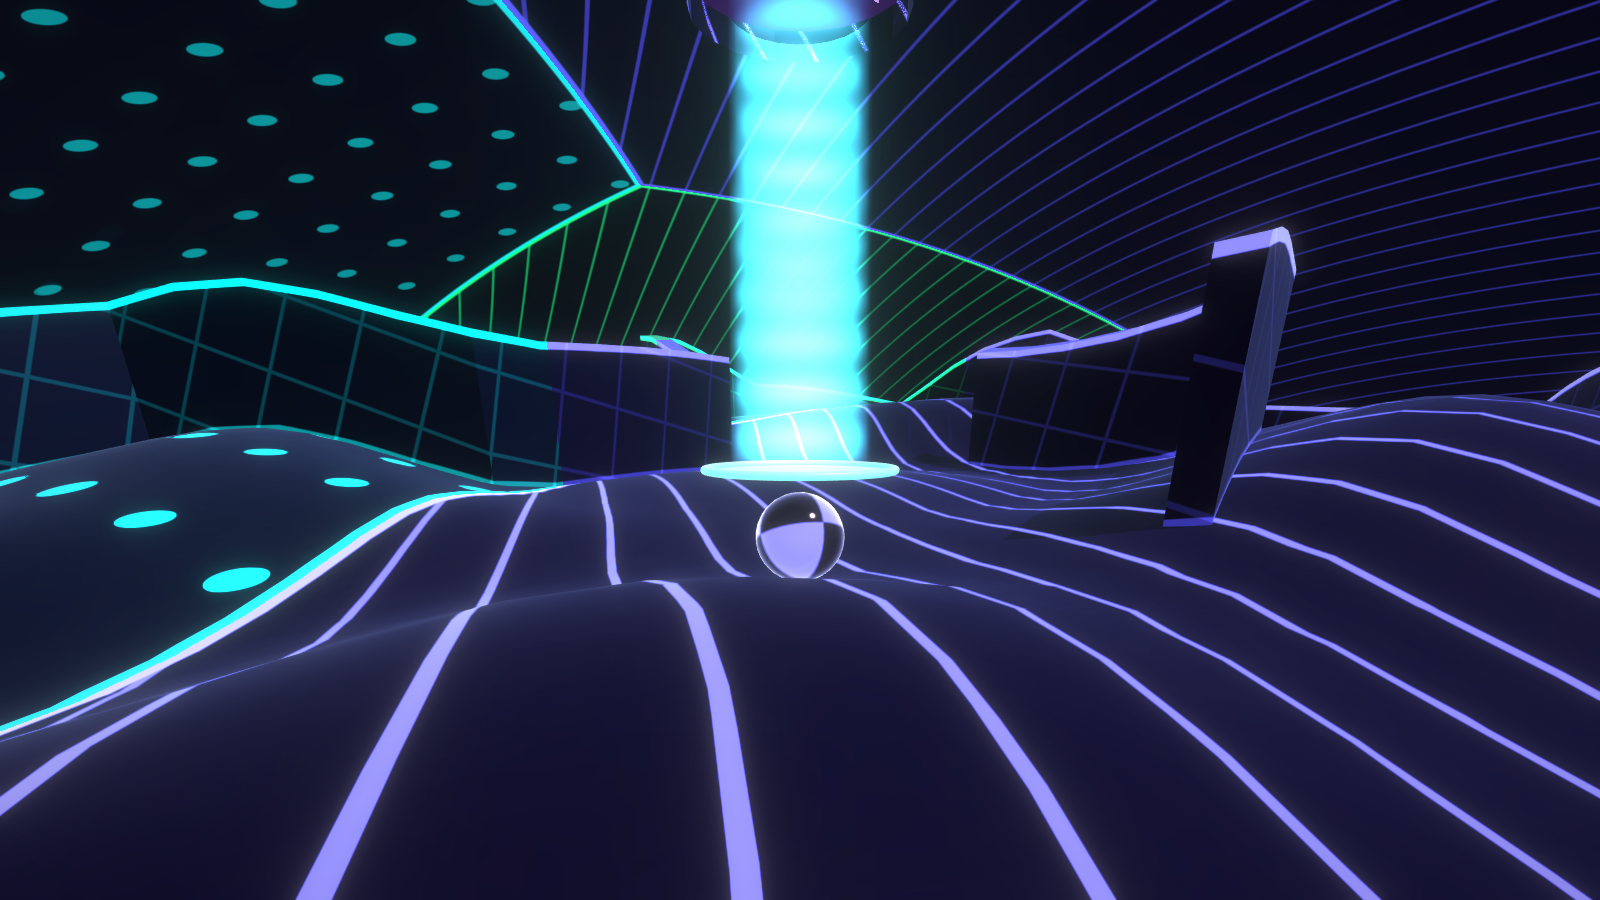
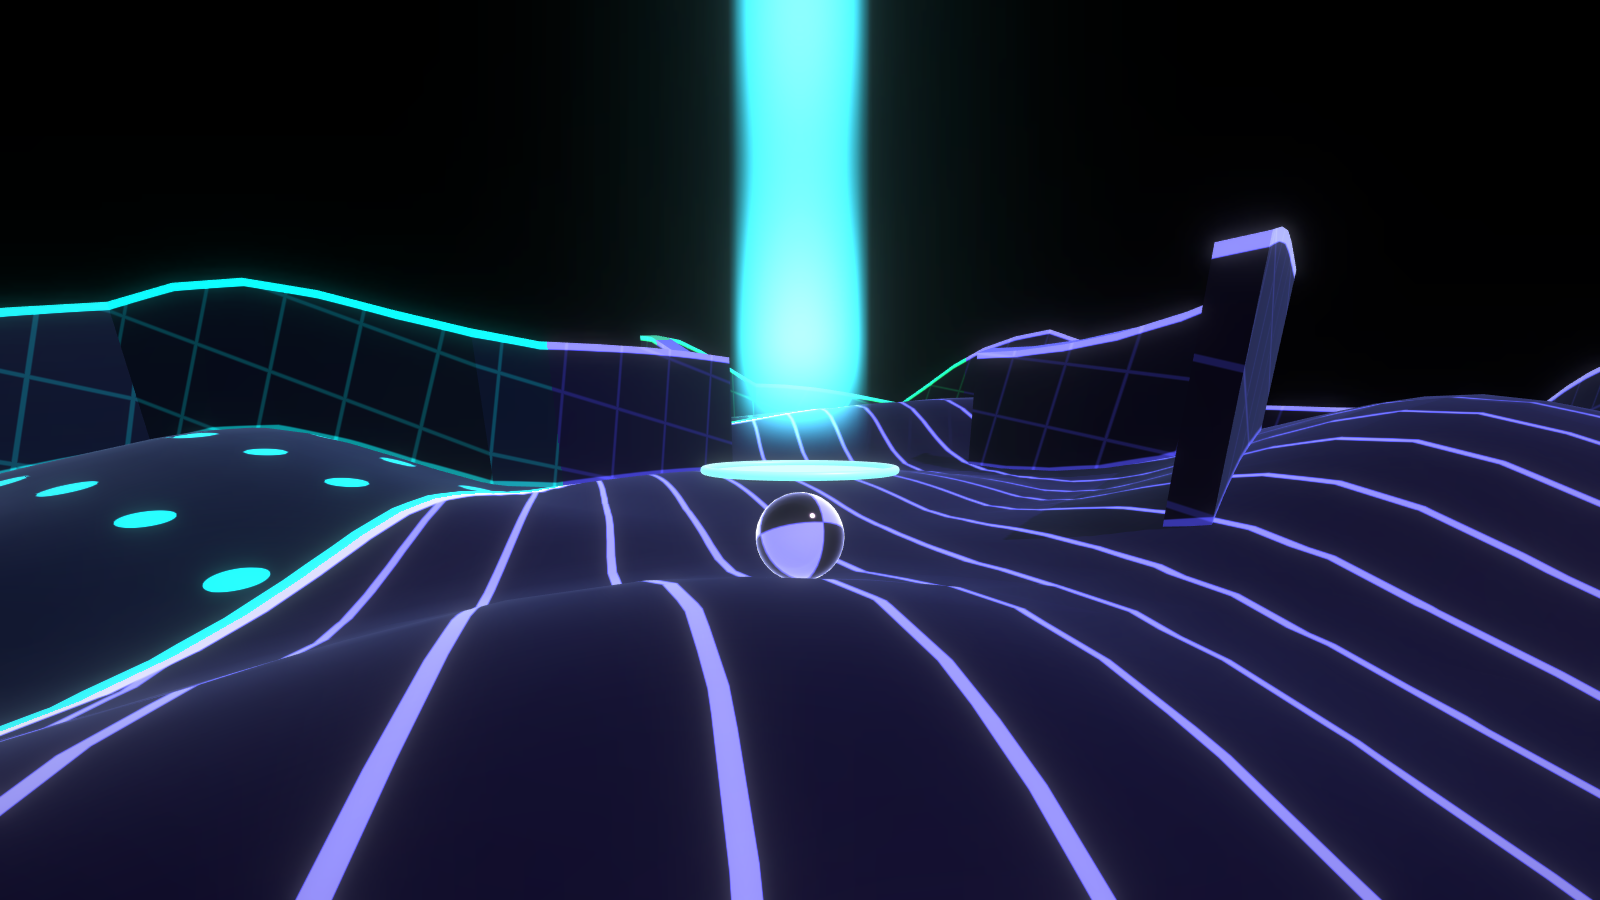
README screenshots for hazards and the Deep Sea style
- New shots: mines, a laser gate and its off switch, a security camera
  run and a camera catching the ball, and the Deep Sea style.
- Existing shots re-rendered; inner layers now show their plain
  background as in game. README intro and status updated.
- SecurityCamera.Preview/PreviewCaught pose cameras for still renders.

diff --git a/Assets/Editor/SphereDescentSetup.cs b/Assets/Editor/SphereDescentSetup.cs
@@ -723,6 +723,7 @@ namespace SphereDescent.EditorTools
             var sun = gm.sun;
             var orbit = cam.GetComponent<OrbitCamera>();
 
+            Color innerBackground = Color.black;
             var ball = GameObject.CreatePrimitive(PrimitiveType.Sphere);
             ball.GetComponent<MeshRenderer>().sharedMaterial = gm.materials.ball;
             ball.transform.rotation = Quaternion.Euler(30f, 40f, 10f);
@@ -737,6 +738,9 @@ namespace SphereDescent.EditorTools
                 ball.transform.position = ballPos;
                 GameManager.UpdateSky(sun, ballPos.normalized);
                 cam.transform.SetPositionAndRotation(camPos, camRot);
+                // As in game: below the surface the layers above are hidden under a plain background.
+                cam.clearFlags = focusLayer > 0 ? CameraClearFlags.SolidColor : CameraClearFlags.Skybox;
+                cam.backgroundColor = innerBackground;
                 var rt = new RenderTexture(width, height, 24) { antiAliasing = 8 };
                 cam.targetTexture = rt;
                 cam.Render();
@@ -850,6 +854,90 @@ namespace SphereDescent.EditorTools
             Vector3 corePos = coreDir * (settings.coreRadius + 0.5f);
             Vector3 coreEye = coreDir * (settings.coreRadius + 4f) - coreSide * 7f;
             Render("core", corePos, coreEye, Quaternion.LookRotation(corePos + coreDir * 0.6f - coreEye, coreDir), layout.ShellCount);
+
+            // Hazards. Mines: rolling up to the first group on the surface, with some of their lights lit.
+            foreach (var m in level.GetComponentsInChildren<Mine>())
+                if ((m.transform.position.sqrMagnitude * 7f) % 2f < 1f)
+                {
+                    m.lightRenderer.sharedMaterial = m.lightOn;
+                    m.glowRenderer.sharedMaterial = m.glowOn;
+                }
+            foreach (var (section, cell) in layout.MineGroups)
+            {
+                int shell = layout.Sections[section].Shell;
+                var route = Route(section);
+                int k = route.IndexOf(cell);
+                if (shell != 0 || k < 1) continue;
+                var grid = layout.Grids[shell];
+                level.SetBeamSection(section);
+                GameView("mines", shell, Vector3.Slerp(grid.CellCenters[route[k - 1]], grid.CellCenters[cell], 0.3f),
+                    grid.CellCenters[cell], orbit.pitch + 8f);
+                break;
+            }
+
+            // A laser gate across its doorway, and the pad that switches it off.
+            if (layout.LaserGates.Count > 0)
+            {
+                var g = layout.LaserGates[0];
+                var grid = layout.Grids[g.Shell];
+                var door = grid.Edges[g.Edge];
+                Vector3 doorDir = (door.P0 + door.P1).normalized;
+                level.SetBeamSection(g.Section);
+                GameView("laser_gate", g.Shell, Vector3.Slerp(grid.CellCenters[g.EntrySideCell], doorDir, 0.45f), doorDir, orbit.pitch);
+
+                Vector3 pad = grid.CellCenters[g.SwitchCell];
+                Vector3 t = Vector3.ProjectOnPlane(grid.CellCenters[g.EntrySideCell] - pad, pad).normalized;
+                float r = Ground(g.Shell, pad);
+                Vector3 padBall = (pad * r + t * 2.5f).normalized * (Ground(g.Shell, pad * r + t * 2.5f) + 0.5f);
+                Vector3 padEye = pad * (r + 8f) + t * 7f;
+                Render("laser_pad", padBall, padEye, Quaternion.LookRotation(pad * r - padEye, pad), g.Shell);
+            }
+
+            // A run of security cameras sweeping their doorways, and one catching the ball.
+            if (layout.Cameras.Count > 0)
+            {
+                var first = layout.Cameras[0];
+                var grid = layout.Grids[first.Shell];
+                var run = new System.Collections.Generic.List<SecurityCamera>();
+                foreach (var c in layout.Cameras)
+                {
+                    if (c.Section != first.Section) continue;
+                    var e = grid.Edges[c.Edge];
+                    foreach (var sc in level.GetComponentsInChildren<SecurityCamera>())
+                        if (sc.layer == c.Shell && Vector3.Angle(sc.center, e.P0 + e.P1) < 0.01f) run.Add(sc);
+                }
+                foreach (var sc in run) sc.Preview(1.3f);
+                var door = grid.Edges[first.Edge];
+                Vector3 doorDir = (door.P0 + door.P1).normalized;
+                level.SetBeamSection(first.Section);
+                GameView("security_cameras", first.Shell, Vector3.Slerp(grid.CellCenters[first.NearCell], doorDir, 0.15f), doorDir, orbit.pitch + 4f);
+
+                if (run.Count > 0)
+                {
+                    Vector3 spot = run[0].spot.position.normalized;
+                    Vector3 caught = spot * (Ground(first.Shell, spot) + 0.5f);
+                    run[0].PreviewCaught(caught);
+                    Vector3 back = Vector3.ProjectOnPlane(grid.CellCenters[first.NearCell] - spot, spot).normalized;
+                    Vector3 caughtEye = caught + spot * 5f + back * 7f;
+                    Render("camera_caught", caught, caughtEye, Quaternion.LookRotation(caught + spot * 1.5f - caughtEye, spot), first.Shell);
+                    run[0].Preview(1.3f);
+                }
+            }
+
+            // The same corridor as the gameplay shot, in the Deep Sea style.
+            {
+                var deepSea = VisualStyle.DeepSea();
+                Object.DestroyImmediate(level.gameObject);
+                level = LevelBuilder.Build(layout, settings, gm.materials, 1, deepSea);
+                Physics.SyncTransforms();
+                var sky = new Material(RenderSettings.skybox); // leave the sky material asset alone
+                RenderSettings.skybox = sky;
+                GameManager.ApplyAtmosphere(deepSea, sky, sun);
+                innerBackground = deepSea.innerBackground;
+                level.SetBeamSection(0);
+                // Lower pitch than the gameplay shot, so the water sky and its light shafts show.
+                GameView("deep_sea", 0, g0.CellCenters[route0[at]], g0.CellCenters[route0[at + 1]], orbit.pitch - 16f);
+            }
 
             Object.DestroyImmediate(ball);
             Object.DestroyImmediate(level.gameObject);

diff --git a/Assets/Scripts/Gameplay/SecurityCamera.cs b/Assets/Scripts/Gameplay/SecurityCamera.cs
@@ -61,8 +61,7 @@ namespace SphereDescent
 
             if (!firing)
             {
-                Vector2 p = Sweep(Mathf.Repeat(Time.time / period + phase, 1f));
-                aim = (center * groundRadius + across * (sweepAcross * p.x) + along * (sweepAlong * p.y)).normalized * groundRadius;
+                aim = SweepPoint(Time.time);
 
                 if (ball != null && !ball.IsDestroyed && ball.CurrentLayer == layer &&
                     Vector3.Angle(ball.transform.position, aim) * Mathf.Deg2Rad * groundRadius < spotRadius)
@@ -74,6 +73,33 @@ namespace SphereDescent
                 aim = ball.transform.position.normalized * groundRadius;
             }
             Aim();
+        }
+
+        Vector3 SweepPoint(float time)
+        {
+            Vector2 p = Sweep(Mathf.Repeat(time / period + phase, 1f));
+            return (center * groundRadius + across * (sweepAcross * p.x) + along * (sweepAlong * p.y)).normalized * groundRadius;
+        }
+
+        /// <summary>Poses the camera as it would be at <paramref name="time"/>, for still renders outside Play mode.</summary>
+        public void Preview(float time)
+        {
+            SetColor(searchColor);
+            if (laser != null) laser.gameObject.SetActive(false);
+            aim = SweepPoint(time);
+            Aim();
+        }
+
+        /// <summary>Poses the camera locked on and firing at <paramref name="target"/>, for still renders.</summary>
+        public void PreviewCaught(Vector3 target)
+        {
+            SetColor(alertColor);
+            aim = target.normalized * groundRadius;
+            Aim();
+            Vector3 from = lens.position;
+            laser.gameObject.SetActive(true);
+            laser.SetPositionAndRotation((from + target) * 0.5f, Quaternion.FromToRotation(Vector3.up, target - from));
+            laser.localScale = new Vector3(0.12f, Vector3.Distance(from, target) * 0.5f, 0.12f);
         }
 
         /// <summary>Where the spot is at time <paramref name="u"/> (0-1 through one period), as fractions of the sweep's reach across and along.</summary>

diff --git a/README.md b/README.md
@@ -1,12 +1,12 @@
 # Sphere Descent
 
-A 3D rolling-ball maze game made in Unity, with a synthwave look. You steer a small ball across the outside of a planet covered in neon-lit maze walls. You drop through holes onto smaller spheres nested inside, and sometimes climb back up, until you reach the glowing core at the center.
+A 3D rolling-ball maze game made in Unity, with a synthwave (or deep-sea) look. You steer a small ball across the outside of a planet covered in neon-lit maze walls. You drop through holes onto smaller spheres nested inside, and sometimes climb back up, until you reach the glowing core at the center.
 
 ![The synthwave sun over the maze](Docs/screenshots/horizon.png)
 
 ![Rolling through a maze corridor](Docs/screenshots/gameplay.png)
 
-> **Status:** early prototype. The core loop works, but tuning, traps and obstacles, sound and menus are still to come.
+> **Status:** early prototype. The core loop and three kinds of hazard work, but tuning, sound and a proper menu are still to come.
 
 ## How it plays
 
@@ -28,6 +28,14 @@ Each world is a set of nested spheres: a surface shell, three smaller shells ins
 
 ![Landing on the gold core completes the world](Docs/screenshots/core.png)
 
+| Mines along the route | A laser gate across a doorway | The pad that switches it off |
+|---|---|---|
+| ![A group of mines in a corridor](Docs/screenshots/mines.png) | ![A grid of lasers filling a doorway](Docs/screenshots/laser_gate.png) | ![The pad that turns the lasers off, down a side path](Docs/screenshots/laser_pad.png) |
+
+| Security cameras sweeping a passage | Caught in the light |
+|---|---|
+| ![Cameras on poles above the walls, sweeping spotlights across the passage](Docs/screenshots/security_cameras.png) | ![A camera locked on and firing its laser at the ball](Docs/screenshots/camera_caught.png) |
+
 To help you find your way, each sphere is split into 12 zones, each with its own neon color and line pattern: square grid, diagonal grid, stripes or dots. The zones line up through every layer. A beam of light rises from where the section you're in ends, orange over a hole to drop through or cyan over a boost pad to climb from, so you can spot it over the maze walls. The HUD shows the world, section, layer and zone you're in.
 
 ## Look
@@ -43,6 +51,8 @@ Synthwave:
 - **Glow:** bloom and a light vignette from URP post-processing (`Assets/Settings/PostProcessing.asset`).
 
 Deep Sea: dark blue-green surfaces glowing in softer bioluminescent zone colors, with caustic light rippling over floors and walls (a tiling pattern computed at startup). The sky is water, brightest overhead, with swaying shafts of light and drifting specks; a blue haze fills the distance and specks drift around the camera.
+
+![The same corridor in the Deep Sea style](Docs/screenshots/deep_sea.png)
 
 ## Controls
 
